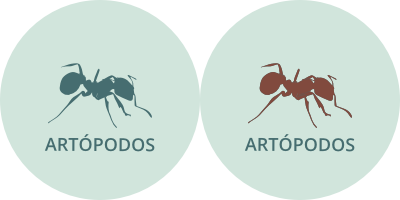
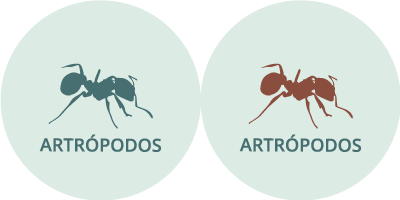
New headers image and new default catalog images

diff --git a/public/javascripts/app/services.js b/public/javascripts/app/services.js
@@ -36,6 +36,8 @@ define(['jquery', 'angular'], function($, angular) {
 								dataVarRandomImages.data[i]["currentImage"] = "/images/taxon_icons/hongos2.png";
 							} else if(dataVarRandomImages.data[i].reino.toLowerCase() == "animalia" && dataVarRandomImages.data[i].clase.toLowerCase() == "amphibia") {
 								dataVarRandomImages.data[i]["currentImage"] = "/images/taxon_icons/anfibios2.png";
+							} else if(dataVarRandomImages.data[i].reino.toLowerCase() == "animalia" && dataVarRandomImages.data[i].phylum.toLowerCase() == "mollusca") {
+								dataVarRandomImages.data[i]["currentImage"] = "/images/taxon_icons/moluscos2.png";
 							} else {
 								dataVarRandomImages.data[i]["currentImage"] = "/images/taxon_icons/vida_s.png";
 							}
@@ -63,6 +65,8 @@ define(['jquery', 'angular'], function($, angular) {
 								dataVar.data[i]["currentImage"] = "/images/taxon_icons/hongos2.png";
 							} else if(dataVar.data[i].reino.toLowerCase() == "animalia" && dataVar.data[i].clase.toLowerCase() == "amphibia") {
 								dataVar.data[i]["currentImage"] = "/images/taxon_icons/anfibios2.png";
+							} else if(dataVar.data[i].reino.toLowerCase() == "animalia" && dataVar.data[i].phylum.toLowerCase() == "mollusca") {
+								dataVar.data[i]["currentImage"] = "/images/taxon_icons/moluscos2.png";
 							} else {
 								dataVar.data[i]["currentImage"] = "/images/taxon_icons/vida_s.png";
 							}
@@ -125,6 +129,8 @@ define(['jquery', 'angular'], function($, angular) {
 											items[i]["currentImage"] = "/images/taxon_icons/hongos2.png";
 										} else if(items[i].reino.toLowerCase() == "animalia" && items[i].clase.toLowerCase() == "amphibia") {
 											items[i]["currentImage"] = "/images/taxon_icons/anfibios2.png";
+										} else if(items[i].reino.toLowerCase() == "animalia" && items[i].phylum.toLowerCase() == "mollusca") {
+											items[i]["currentImage"] = "/images/taxon_icons/moluscos2.png";
 										} else {
 											items[i]["currentImage"] = "/images/taxon_icons/vida_s.png";
 										}
@@ -229,6 +235,8 @@ define(['jquery', 'angular'], function($, angular) {
 									items[i]["currentImage"] = "/images/taxon_icons/hongos2.png";
 								} else if(items[i].reino.toLowerCase() == "animalia" && items[i].clase.toLowerCase() == "amphibia") {
 									items[i]["currentImage"] = "/images/taxon_icons/anfibios2.png";
+								} else if(items[i].reino.toLowerCase() == "animalia" && items[i].phylum.toLowerCase() == "mollusca") {
+									items[i]["currentImage"] = "/images/taxon_icons/moluscos2.png";
 								} else {
 									items[i]["currentImage"] = "/images/taxon_icons/vida_s.png";
 								}
@@ -288,6 +296,8 @@ define(['jquery', 'angular'], function($, angular) {
 						this.data.currentImage = "/images/taxon_icons/hongos.png";
 					} else if(this.data.reino.toLowerCase() == "animalia" && this.data.clase.toLowerCase() == "amphibia") {
 						this.data.currentImage = "/images/taxon_icons/anfibios.png";
+					} else if(this.data.reino.toLowerCase() == "animalia" && this.data.phylum.toLowerCase() == "mollusca") {
+						this.data.currentImage = "/images/taxon_icons/moluscos.png";
 					} else {
 						this.data.currentImage = "/images/taxon_icons/vida.png";
 					}

diff --git a/app/controllers/fichas/index.js b/app/controllers/fichas/index.js
@@ -99,6 +99,10 @@ exports.show = function(req, res) {
 							result[registerID].currentImages[result[registerID].currentImages.length] = {};
 							result[registerID].currentImages[result[registerID].currentImages.length-1].imageURL = "/images/taxon_icons/anfibios.png";
 							//metaTagOgImage = "/images/taxon_icons/anfibios.png";
+						} else if(result[registerID].reino.toLowerCase() == "animalia" && result[registerID].phylum.toLowerCase() == "mollusca") {
+							result[registerID].currentImages[result[registerID].currentImages.length] = {};
+							result[registerID].currentImages[result[registerID].currentImages.length-1].imageURL = "/images/taxon_icons/moluscos.png";
+							//metaTagOgImage = "/images/taxon_icons/anfibios.png";
 						} else {
 							result[registerID].currentImages[result[registerID].currentImages.length] = {};
 							result[registerID].currentImages[result[registerID].currentImages.length-1].imageURL = "/images/taxon_icons/vida.png";
@@ -219,6 +223,9 @@ exports.showOld = function(req, res) {
 					//metaTagOgImage = "/images/taxon_icons/hongos.png";
 				} else if(result[registerID].reino.toLowerCase() == "animalia" && result[registerID].clase.toLowerCase() == "amphibia") {
           			result[registerID].currentImage = "/images/taxon_icons/anfibios.png";
+					//metaTagOgImage = "/images/taxon_icons/anfibios.png";
+				} else if(result[registerID].reino.toLowerCase() == "animalia" && result[registerID].clase.toLowerCase() == "mollusca") {
+          			result[registerID].currentImage = "/images/taxon_icons/moluscos.png";
 					//metaTagOgImage = "/images/taxon_icons/anfibios.png";
 				} else {
           			result[registerID].currentImage = "/images/taxon_icons/vida.png";
